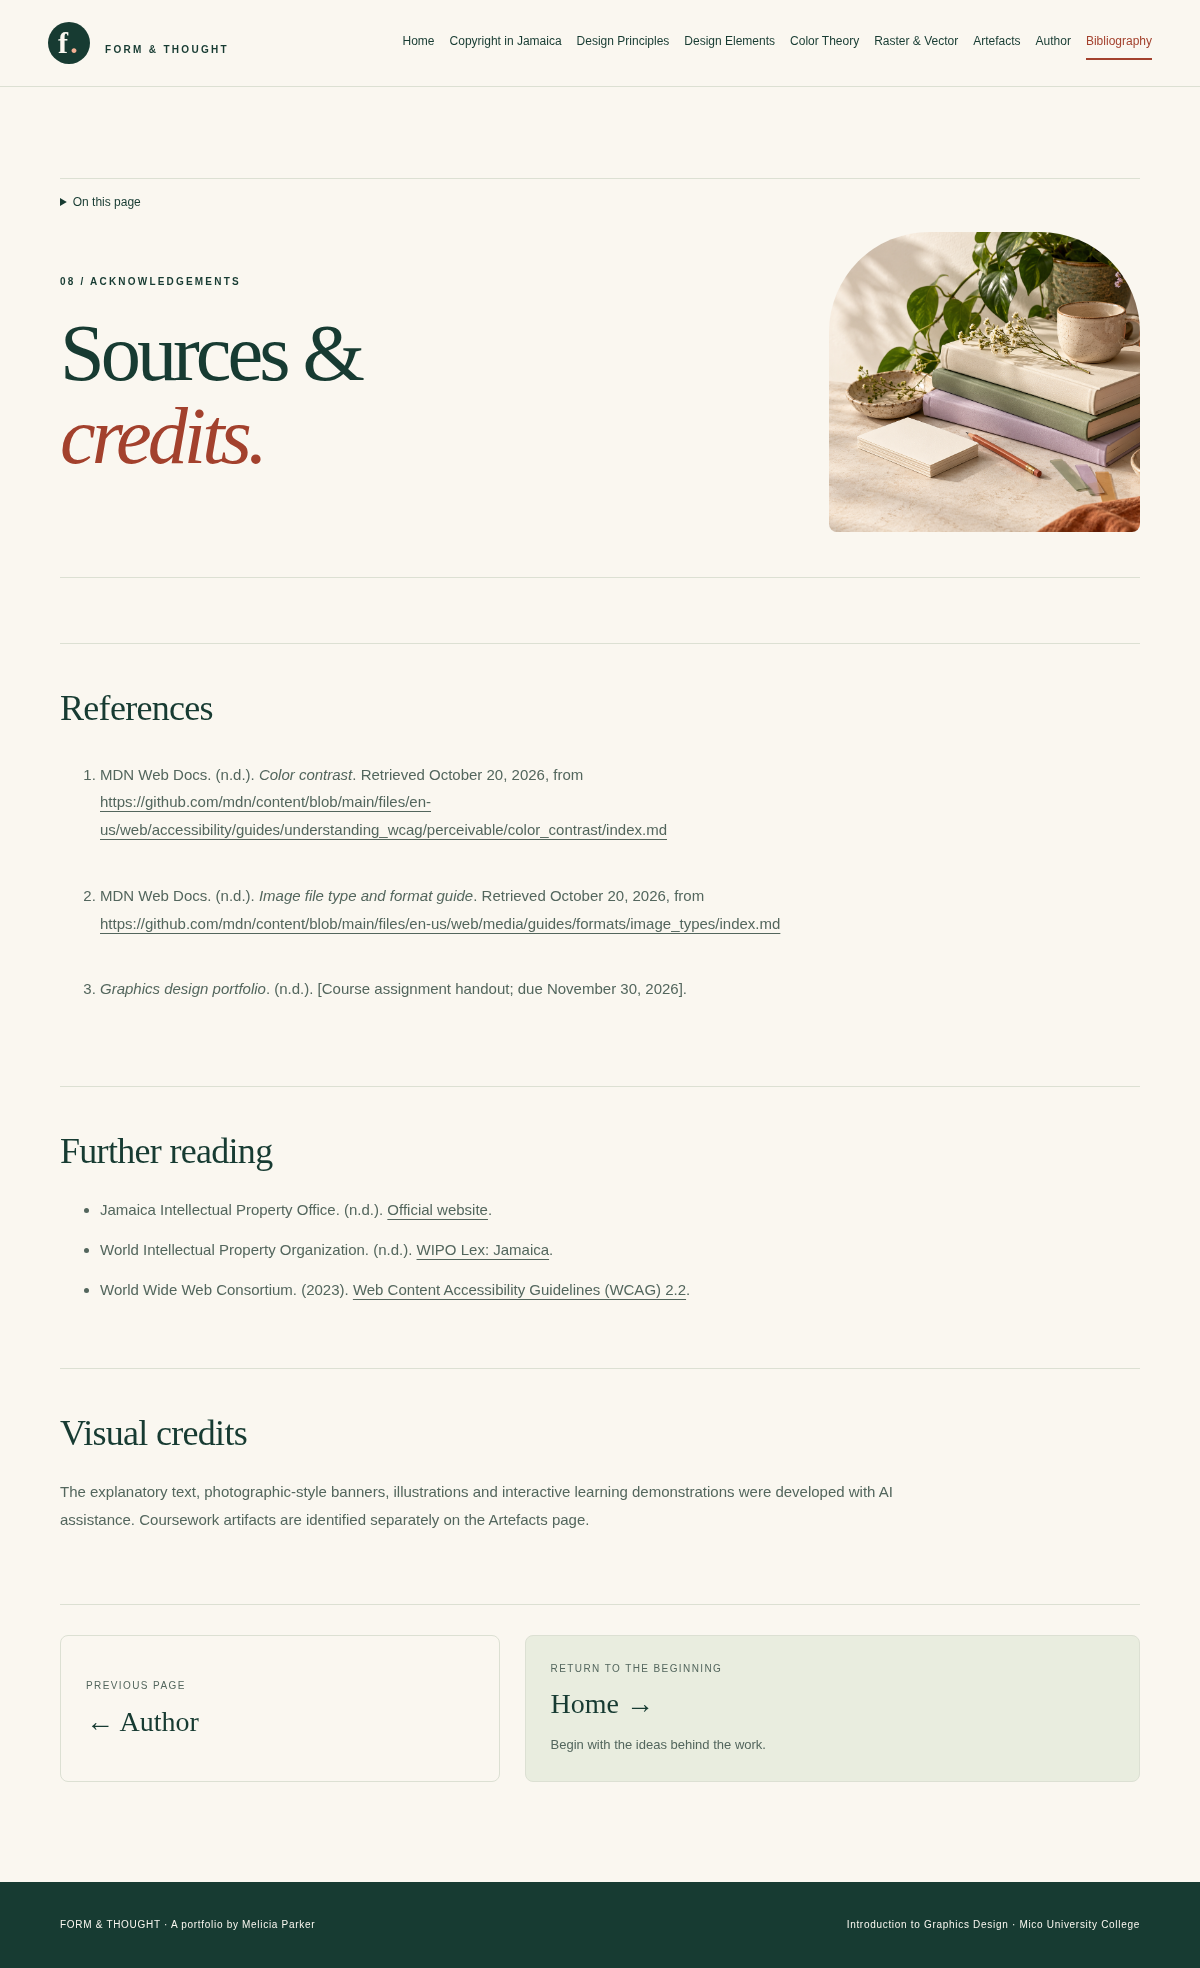
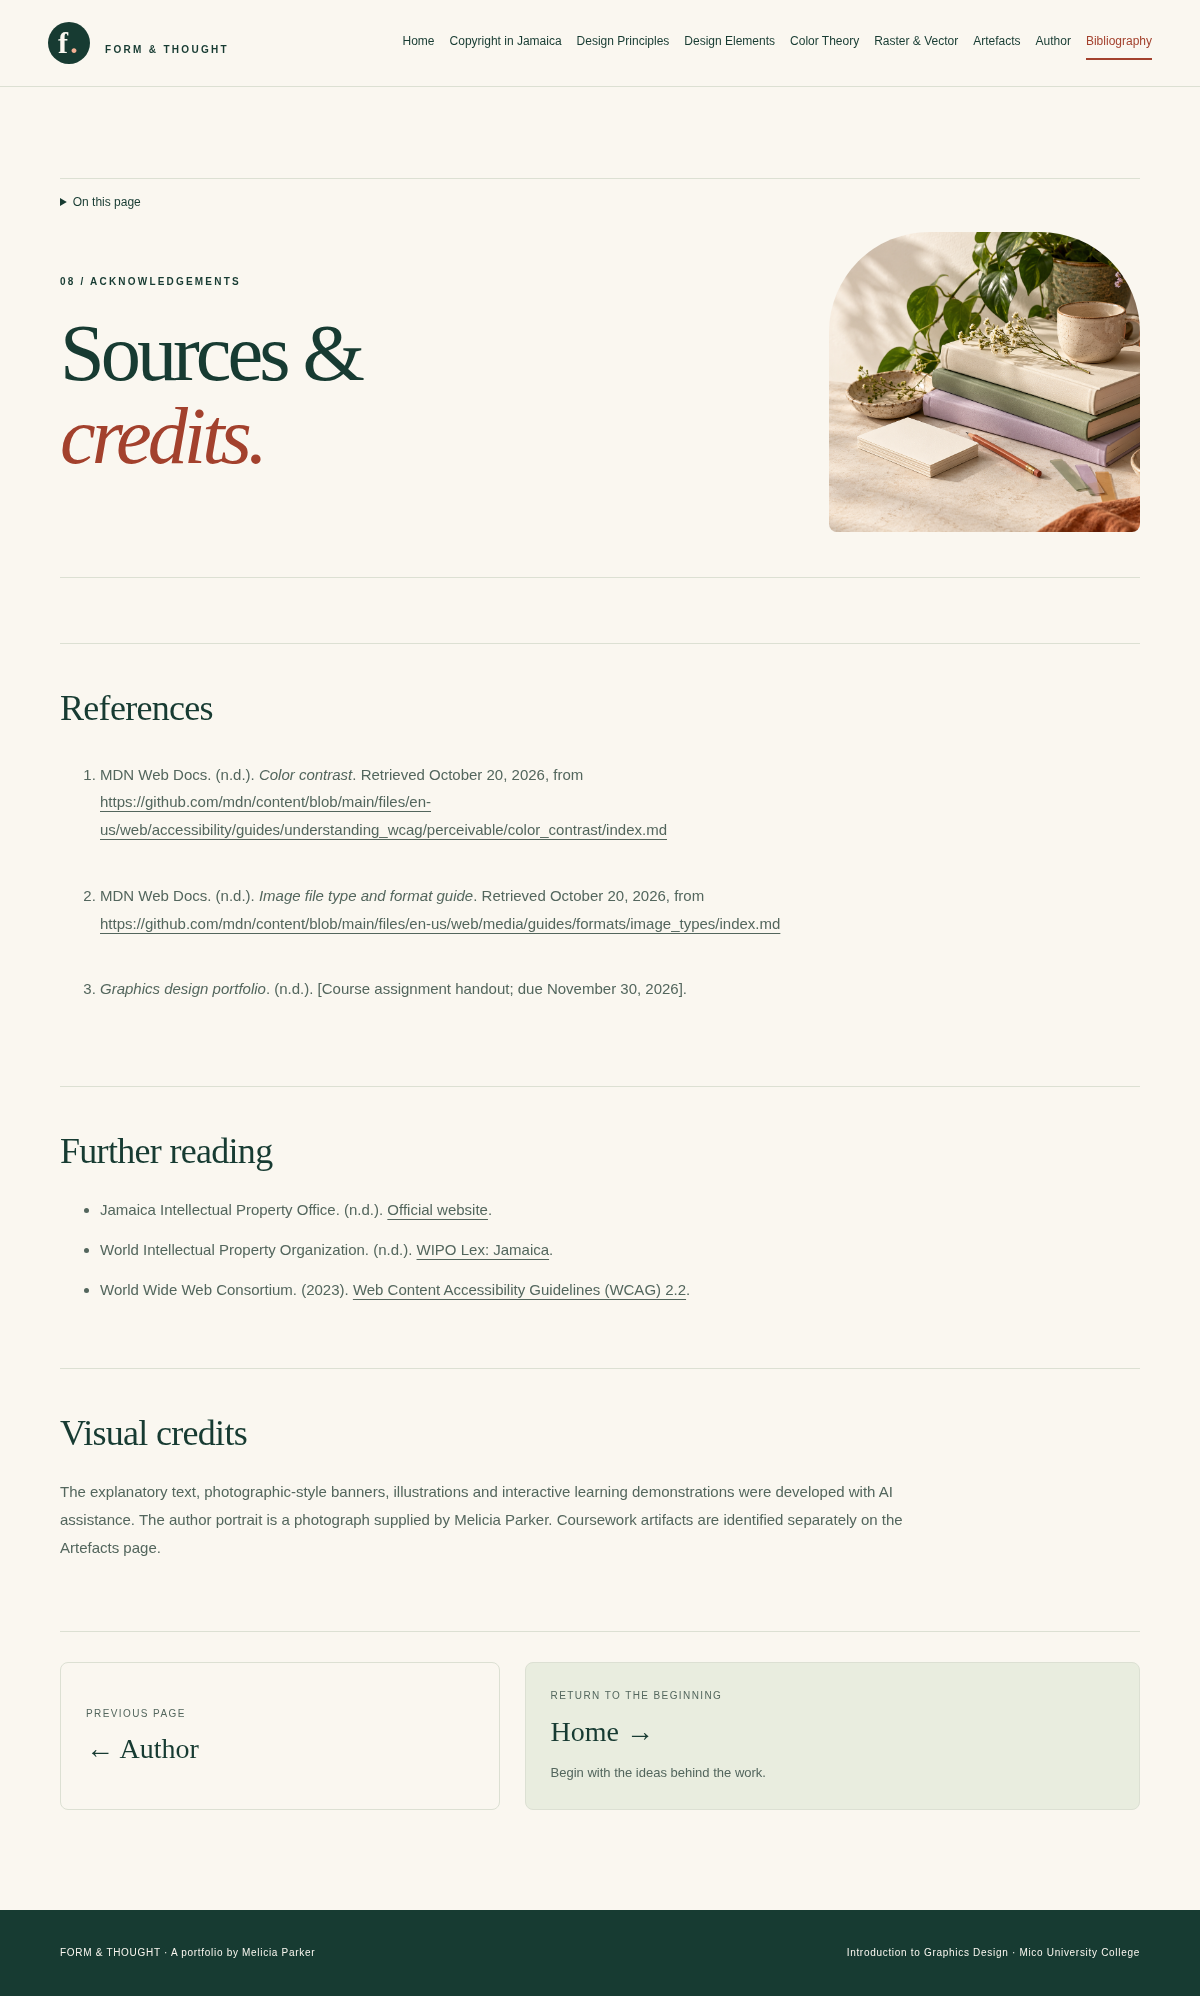
Add Melicia's portrait beside the About me biography

diff --git a/portfolio/bibliography.html b/portfolio/bibliography.html
@@ -1,1 +1,1 @@
-<!doctype html><html lang="en"><head><meta charset="utf-8"><meta name="viewport" content="width=device-width, initial-scale=1"><meta name="description" content="Graphics design portfolio exploring theory and practical coursework."><title>Bibliography · Form &amp; Thought</title><link rel="stylesheet" href="./assets/style.css"><script src="./assets/app.js" defer></script></head><body class="page-bibliography"><a class="skip" href="#main">Skip to content</a><header><a class="brand" href="index.html"><span class="brand-mark" aria-hidden="true">f<span>.</span></span> FORM &amp; THOUGHT</a><button class="menu" aria-controls="navigation" aria-expanded="false">Menu</button><nav id="navigation" aria-label="Main navigation"><a href="index.html">Home</a><a href="copyright.html">Copyright in Jamaica</a><a href="principles.html">Design Principles</a><a href="elements.html">Design Elements</a><a href="color.html">Color Theory</a><a href="raster-vector.html">Raster & Vector</a><a href="artefacts.html">Artefacts</a><a href="author.html">Author</a><a href="bibliography.html" aria-current="page">Bibliography</a></nav></header><main id="main"><section class="page-heading"><div class="page-heading-copy"><p class="eyebrow">08 / ACKNOWLEDGEMENTS</p><h1>Sources &<br><em>credits.</em></h1></div><figure class="page-photo"><img src="assets/banners/bibliography.png" alt="Plain books, index cards and bookmarks arranged for research." width="1672" height="941" decoding="async"></figure></section><section class="learning-section"><h2>References</h2><ol class="references"><li id="mdn-contrast">MDN Web Docs. (n.d.). <cite>Color contrast</cite>. Retrieved October 20, 2026, from <a href="https://github.com/mdn/content/blob/main/files/en-us/web/accessibility/guides/understanding_wcag/perceivable/color_contrast/index.md">https://github.com/mdn/content/blob/main/files/en-us/web/accessibility/guides/understanding_wcag/perceivable/color_contrast/index.md</a></li><li id="mdn-formats">MDN Web Docs. (n.d.). <cite>Image file type and format guide</cite>. Retrieved October 20, 2026, from <a href="https://github.com/mdn/content/blob/main/files/en-us/web/media/guides/formats/image_types/index.md">https://github.com/mdn/content/blob/main/files/en-us/web/media/guides/formats/image_types/index.md</a></li><li><cite>Graphics design portfolio</cite>. (n.d.). [Course assignment handout; due November 30, 2026].</li></ol></section><section class="learning-section"><h2>Further reading</h2><ul><li>Jamaica Intellectual Property Office. (n.d.). <a href="https://www.jipo.gov.jm/">Official website</a>.</li><li>World Intellectual Property Organization. (n.d.). <a href="https://www.wipo.int/wipolex/en/legislation/members/profile/JM">WIPO Lex: Jamaica</a>.</li><li>World Wide Web Consortium. (2023). <a href="https://www.w3.org/TR/WCAG22/">Web Content Accessibility Guidelines (WCAG) 2.2</a>.</li></ul></section><section class="learning-section"><h2>Visual credits</h2><p>The explanatory text, photographic-style banners, illustrations and interactive learning demonstrations were developed with AI assistance. Coursework artifacts are identified separately on the Artefacts page.</p></section><nav class="page-journey" aria-label="Page navigation"><a class="journey-back" href="author.html"><span>Previous page</span><strong>&larr; Author</strong></a><a class="journey-next" href="index.html"><span>Return to the beginning</span><strong>Home &rarr;</strong><p>Begin with the ideas behind the work.</p></a></nav></main><footer><span>FORM &amp; THOUGHT · A portfolio by Melicia Parker</span><span>Introduction to Graphics Design · Mico University College</span></footer></body></html>
+<!doctype html><html lang="en"><head><meta charset="utf-8"><meta name="viewport" content="width=device-width, initial-scale=1"><meta name="description" content="Graphics design portfolio exploring theory and practical coursework."><title>Bibliography · Form &amp; Thought</title><link rel="stylesheet" href="./assets/style.css"><script src="./assets/app.js" defer></script></head><body class="page-bibliography"><a class="skip" href="#main">Skip to content</a><header><a class="brand" href="index.html"><span class="brand-mark" aria-hidden="true">f<span>.</span></span> FORM &amp; THOUGHT</a><button class="menu" aria-controls="navigation" aria-expanded="false">Menu</button><nav id="navigation" aria-label="Main navigation"><a href="index.html">Home</a><a href="copyright.html">Copyright in Jamaica</a><a href="principles.html">Design Principles</a><a href="elements.html">Design Elements</a><a href="color.html">Color Theory</a><a href="raster-vector.html">Raster & Vector</a><a href="artefacts.html">Artefacts</a><a href="author.html">Author</a><a href="bibliography.html" aria-current="page">Bibliography</a></nav></header><main id="main"><section class="page-heading"><div class="page-heading-copy"><p class="eyebrow">08 / ACKNOWLEDGEMENTS</p><h1>Sources &<br><em>credits.</em></h1></div><figure class="page-photo"><img src="assets/banners/bibliography.png" alt="Plain books, index cards and bookmarks arranged for research." width="1672" height="941" decoding="async"></figure></section><section class="learning-section"><h2>References</h2><ol class="references"><li id="mdn-contrast">MDN Web Docs. (n.d.). <cite>Color contrast</cite>. Retrieved October 20, 2026, from <a href="https://github.com/mdn/content/blob/main/files/en-us/web/accessibility/guides/understanding_wcag/perceivable/color_contrast/index.md">https://github.com/mdn/content/blob/main/files/en-us/web/accessibility/guides/understanding_wcag/perceivable/color_contrast/index.md</a></li><li id="mdn-formats">MDN Web Docs. (n.d.). <cite>Image file type and format guide</cite>. Retrieved October 20, 2026, from <a href="https://github.com/mdn/content/blob/main/files/en-us/web/media/guides/formats/image_types/index.md">https://github.com/mdn/content/blob/main/files/en-us/web/media/guides/formats/image_types/index.md</a></li><li><cite>Graphics design portfolio</cite>. (n.d.). [Course assignment handout; due November 30, 2026].</li></ol></section><section class="learning-section"><h2>Further reading</h2><ul><li>Jamaica Intellectual Property Office. (n.d.). <a href="https://www.jipo.gov.jm/">Official website</a>.</li><li>World Intellectual Property Organization. (n.d.). <a href="https://www.wipo.int/wipolex/en/legislation/members/profile/JM">WIPO Lex: Jamaica</a>.</li><li>World Wide Web Consortium. (2023). <a href="https://www.w3.org/TR/WCAG22/">Web Content Accessibility Guidelines (WCAG) 2.2</a>.</li></ul></section><section class="learning-section"><h2>Visual credits</h2><p>The explanatory text, photographic-style banners, illustrations and interactive learning demonstrations were developed with AI assistance. The author portrait is a photograph supplied by Melicia Parker. Coursework artifacts are identified separately on the Artefacts page.</p></section><nav class="page-journey" aria-label="Page navigation"><a class="journey-back" href="author.html"><span>Previous page</span><strong>&larr; Author</strong></a><a class="journey-next" href="index.html"><span>Return to the beginning</span><strong>Home &rarr;</strong><p>Begin with the ideas behind the work.</p></a></nav></main><footer><span>FORM &amp; THOUGHT · A portfolio by Melicia Parker</span><span>Introduction to Graphics Design · Mico University College</span></footer></body></html>

diff --git a/portfolio/author.html b/portfolio/author.html
@@ -1,1 +1,1 @@
-<!doctype html><html lang="en"><head><meta charset="utf-8"><meta name="viewport" content="width=device-width, initial-scale=1"><meta name="description" content="Graphics design portfolio exploring theory and practical coursework."><title>Author · Form &amp; Thought</title><link rel="stylesheet" href="./assets/style.css"><script src="./assets/app.js" defer></script></head><body class="page-author"><a class="skip" href="#main">Skip to content</a><header><a class="brand" href="index.html"><span class="brand-mark" aria-hidden="true">f<span>.</span></span> FORM &amp; THOUGHT</a><button class="menu" aria-controls="navigation" aria-expanded="false">Menu</button><nav id="navigation" aria-label="Main navigation"><a href="index.html">Home</a><a href="copyright.html">Copyright in Jamaica</a><a href="principles.html">Design Principles</a><a href="elements.html">Design Elements</a><a href="color.html">Color Theory</a><a href="raster-vector.html">Raster & Vector</a><a href="artefacts.html">Artefacts</a><a href="author.html" aria-current="page">Author</a><a href="bibliography.html">Bibliography</a></nav></header><main id="main"><section class="page-heading"><div class="page-heading-copy"><p class="eyebrow">07 / THE DESIGNER</p><h1>Behind the<br><em>portfolio.</em></h1><p class="lede">Melicia Parker · Introduction to Graphics Design</p></div><figure class="page-photo"><img src="assets/banners/author.png" alt="Illustrative workspace with notebook, lamp and plant." width="1672" height="941" decoding="async"></figure></section><section class="intro"><dl><dt>Student name</dt><dd>Melicia Parker</dd><dt>Course</dt><dd>Introduction to Graphics Design</dd><dt>Institution</dt><dd>Mico University College</dd><dt>Instructor</dt><dd>Ms. Sandy Shaw</dd><dt>Assignment due date</dt><dd>November 30, 2026</dd></dl><h2>About me</h2><p>My name is Melicia Parker, and I am a fourth-year Computer Science major at Mico University College. This portfolio is part of my Introduction to Graphics Design course, taught by Ms. Sandy Shaw. It brings together my academic focus on technology with my exploration of visual communication, design concepts and creative expression.</p><p>I value originality, clear organisation and attention to detail. When developing this portfolio, I have focused on making each page visually appealing while ensuring that its content has a clear purpose. I use references to inspire presentation and organisation, while keeping the work and its sources accurately identified.</p><p>This portfolio is a space to connect design theory with practical application. Through its explanations, visual examples and artefact collection, I aim to show how colour, typography, composition and digital formats work together to communicate effectively.</p></section><nav class="page-journey" aria-label="Page navigation"><a class="journey-back" href="artefacts.html"><span>Previous page</span><strong>&larr; Artefacts</strong></a><a class="journey-next" href="bibliography.html"><span>Next page</span><strong>Bibliography &rarr;</strong><p>Explore the sources supporting the portfolio.</p></a></nav></main><footer><span>FORM &amp; THOUGHT · A portfolio by Melicia Parker</span><span>Introduction to Graphics Design · Mico University College</span></footer></body></html>
+<!doctype html><html lang="en"><head><meta charset="utf-8"><meta name="viewport" content="width=device-width, initial-scale=1"><meta name="description" content="Graphics design portfolio exploring theory and practical coursework."><title>Author · Form &amp; Thought</title><link rel="stylesheet" href="./assets/style.css"><script src="./assets/app.js" defer></script></head><body class="page-author"><a class="skip" href="#main">Skip to content</a><header><a class="brand" href="index.html"><span class="brand-mark" aria-hidden="true">f<span>.</span></span> FORM &amp; THOUGHT</a><button class="menu" aria-controls="navigation" aria-expanded="false">Menu</button><nav id="navigation" aria-label="Main navigation"><a href="index.html">Home</a><a href="copyright.html">Copyright in Jamaica</a><a href="principles.html">Design Principles</a><a href="elements.html">Design Elements</a><a href="color.html">Color Theory</a><a href="raster-vector.html">Raster & Vector</a><a href="artefacts.html">Artefacts</a><a href="author.html" aria-current="page">Author</a><a href="bibliography.html">Bibliography</a></nav></header><main id="main"><section class="page-heading"><div class="page-heading-copy"><p class="eyebrow">07 / THE DESIGNER</p><h1>Behind the<br><em>portfolio.</em></h1><p class="lede">Melicia Parker · Introduction to Graphics Design</p></div><figure class="page-photo"><img src="assets/banners/author.png" alt="Illustrative workspace with notebook, lamp and plant." width="1672" height="941" decoding="async"></figure></section><section class="intro"><dl><dt>Student name</dt><dd>Melicia Parker</dd><dt>Course</dt><dd>Introduction to Graphics Design</dd><dt>Institution</dt><dd>Mico University College</dd><dt>Instructor</dt><dd>Ms. Sandy Shaw</dd><dt>Assignment due date</dt><dd>November 30, 2026</dd></dl><div class="author-biography"><figure class="author-portrait"><img src="./assets/professional%20headshot.jpg" alt="Melicia Parker" width="360" height="360" loading="lazy" decoding="async"><figcaption><strong>Melicia Parker</strong><span>Fourth-year Computer Science major</span></figcaption></figure><div class="author-bio-copy"><h2>About me</h2><p>My name is Melicia Parker, and I am a fourth-year Computer Science major at Mico University College. This portfolio is part of my Introduction to Graphics Design course, taught by Ms. Sandy Shaw. It brings together my academic focus on technology with my exploration of visual communication, design concepts and creative expression.</p><p>I value originality, clear organisation and attention to detail. When developing this portfolio, I have focused on making each page visually appealing while ensuring that its content has a clear purpose. I use references to inspire presentation and organisation, while keeping the work and its sources accurately identified.</p><p>This portfolio is a space to connect design theory with practical application. Through its explanations, visual examples and artefact collection, I aim to show how colour, typography, composition and digital formats work together to communicate effectively.</p></div></div></section><nav class="page-journey" aria-label="Page navigation"><a class="journey-back" href="artefacts.html"><span>Previous page</span><strong>&larr; Artefacts</strong></a><a class="journey-next" href="bibliography.html"><span>Next page</span><strong>Bibliography &rarr;</strong><p>Explore the sources supporting the portfolio.</p></a></nav></main><footer><span>FORM &amp; THOUGHT · A portfolio by Melicia Parker</span><span>Introduction to Graphics Design · Mico University College</span></footer></body></html>

diff --git a/portfolio/assets/style.css b/portfolio/assets/style.css
@@ -111,3 +111,5 @@ footer{background:var(--ink);color:var(--paper);border:0;font-size:10px;padding:
 @media(max-width:650px){.page-journey{grid-template-columns:1fr;gap:15px;margin-top:45px}.page-journey strong{font-size:25px}.journey-intro{padding:0 0 5px}.page-journey>a{padding:22px}}
 @media(prefers-reduced-motion:reduce){@view-transition{navigation:none}::view-transition-old(root),::view-transition-new(root){animation:none}.page-journey>a{transition:none}}
 .page-photo{margin:0;width:100%;max-width:390px;justify-self:end}.page-photo img{display:block;width:100%;height:300px;object-fit:cover;object-position:75% center;border-radius:100px 100px 8px 8px}.home-photo{margin:15px 0 40px}.home-photo img{display:block;width:100%;height:auto;aspect-ratio:2.5/1;object-fit:cover;object-position:center 55%;border-radius:8px}@media(max-width:800px){.page-photo img{height:260px}}@media(max-width:650px){.page-photo{max-width:none;justify-self:stretch}.page-photo img{height:auto;aspect-ratio:16/9;border-radius:8px;object-position:center}.home-photo{margin:30px 0}.home-photo img{aspect-ratio:16/9}}
+
+.page-author main>.intro{max-width:none}.page-author main>.intro>dl{max-width:800px}.author-biography{display:grid;grid-template-columns:minmax(230px,320px) minmax(0,1fr);gap:45px;align-items:start;margin-top:50px}.author-portrait{margin:0;background:#fffdf9;padding:13px;border:1px solid var(--line);border-radius:15px;box-shadow:0 12px 30px #193b310a}.author-portrait img{display:block;width:100%;height:auto;aspect-ratio:1;object-fit:cover;border-radius:9px}.author-portrait figcaption{padding:17px 7px 8px}.author-portrait figcaption strong{display:block;font:normal 25px Georgia,serif;line-height:1.2}.author-portrait figcaption span{display:block;font-size:11px;color:var(--muted);margin-top:8px}.author-bio-copy h2{margin-top:0}.author-bio-copy p{line-height:1.85}@media(max-width:650px){.author-biography{grid-template-columns:1fr;gap:30px;margin-top:35px}.author-portrait{width:100%;max-width:330px;justify-self:center}.author-bio-copy h2{font-size:34px}}

diff --git a/portfolio/GOOGLE_SITES_CONTENT.md b/portfolio/GOOGLE_SITES_CONTENT.md
@@ -560,6 +560,8 @@ Assignment due date: November 30, 2026
 
 ## About me
 
+![Melicia Parker](assets/professional%20headshot.jpg)
+
 My name is Melicia Parker, and I am a fourth-year Computer Science major at Mico University College. This portfolio is part of my Introduction to Graphics Design course, taught by Ms. Sandy Shaw. It brings together my academic focus on technology with my exploration of visual communication, design concepts and creative expression.
 
 
@@ -594,7 +596,7 @@ Explore the sources supporting the portfolio.
 
 ## Visual credits
 
-The explanatory text, photographic-style banners, illustrations and interactive learning demonstrations were developed with AI assistance. Coursework artifacts are identified separately on the Artefacts page.
+The explanatory text, photographic-style banners, illustrations and interactive learning demonstrations were developed with AI assistance. The author portrait is a photograph supplied by Melicia Parker. Coursework artifacts are identified separately on the Artefacts page.
 
 Previous page← AuthorReturn to the beginningHome →
 
